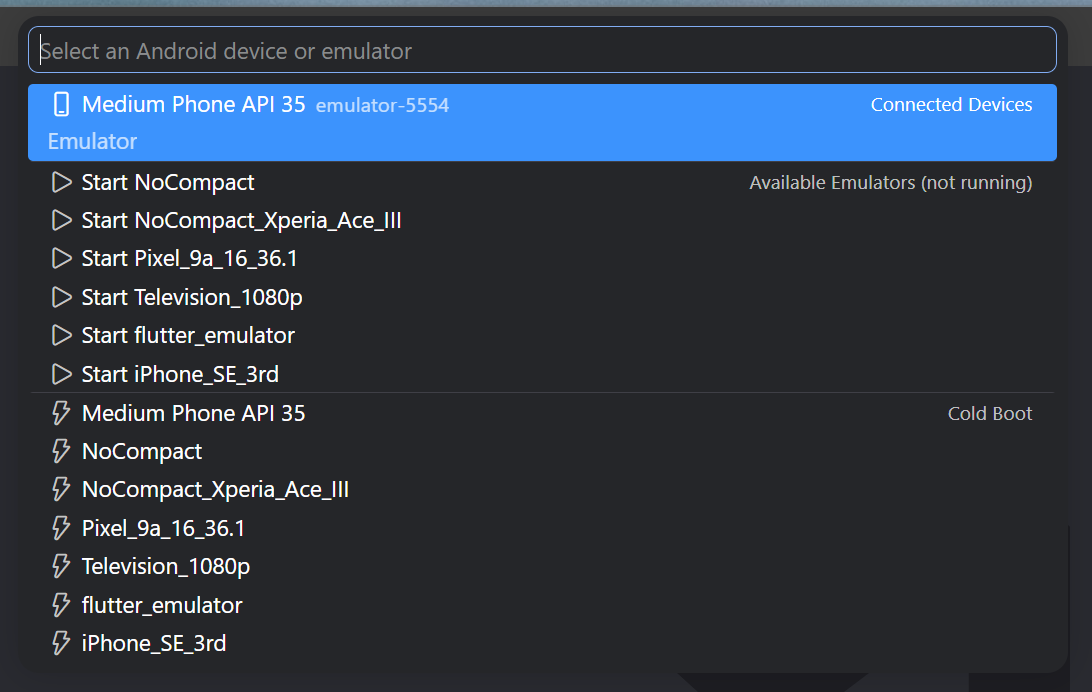
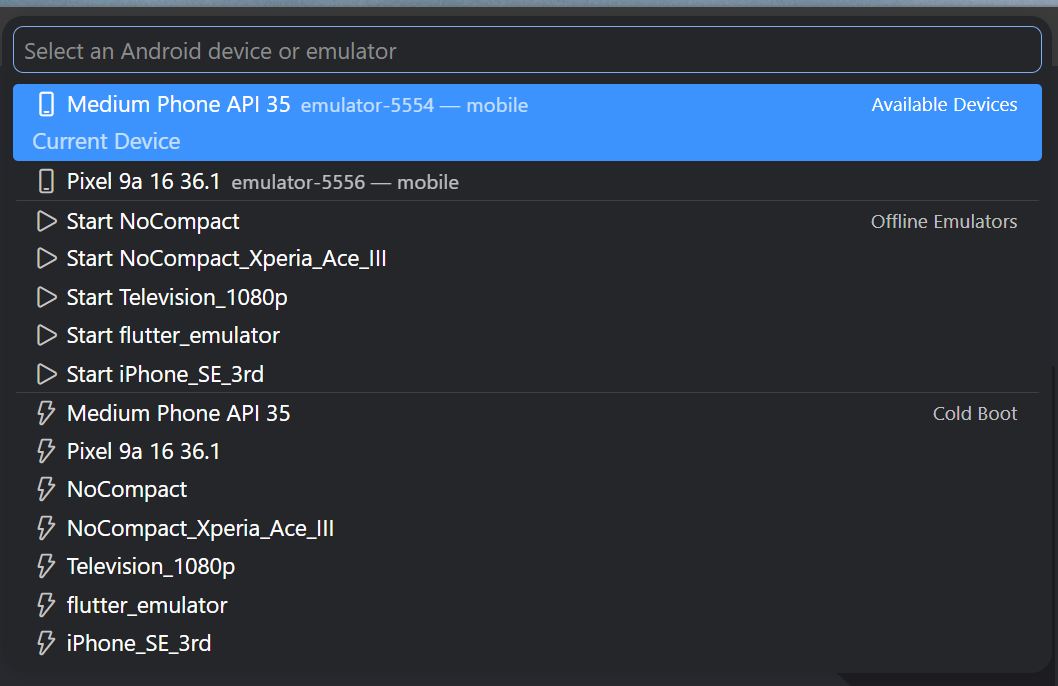
v0.3.3: デバイスピッカーUI改善・F5ガード追加
- Flutter風レイアウト（Current Device / Available Devices / Offline Emulators）
- resolveDebugConfigurationでF5重複起動を抑止
- ユニークセッションID付与でconfirmOnStartダイアログ回避

diff --git a/src/buildRunner.ts b/src/buildRunner.ts
@@ -5,7 +5,7 @@ import * as fs from "fs";
 import { DeviceProvider } from "./deviceProvider";
 import { DeviceManager } from "./deviceManager";
 import { VariantManager } from "./variantManager";
-import { getDebugAdapter } from "./extension";
+import { getDebugAdapter, removeDebugAdapter } from "./extension";
 
 interface DeviceSession {
   deviceId: string;
@@ -24,7 +24,6 @@ export class BuildRunner implements vscode.Disposable {
   private buildingStatusBarItem: vscode.StatusBarItem;
   private stopStatusBarItem: vscode.StatusBarItem;
   private isBuildInProgress = false;
-  private lastLaunchedDeviceId: string | undefined;
   private logFilter: string | undefined;
   private disposables: vscode.Disposable[] = [];
 
@@ -303,23 +302,19 @@ export class BuildRunner implements vscode.Disposable {
         deviceOutputChannel.appendLine(vscode.l10n.t("Could not get app PID, showing all logs"));
       }
 
-      const targetDeviceId = currentDevice.id;
+      const debugSessionName = `Android: ${currentDevice.name}`;
       const logcatProcess = this.deviceProvider.startLogcat(
         currentDevice.id,
         pid,
         (text, category) => {
           deviceOutputChannel.appendLine(text);
-          // Only send to DAP debug console for the most recently launched device
-          if (this.lastLaunchedDeviceId === targetDeviceId) {
-            const adapter = getDebugAdapter();
-            if (adapter) {
-              adapter.writeToConsole(text, category);
-            }
+          // Send to this device's DAP debug console
+          const adapter = getDebugAdapter(debugSessionName);
+          if (adapter) {
+            adapter.writeToConsole(text, category);
           }
         }
       );
-
-      this.lastLaunchedDeviceId = currentDevice.id;
 
       // Register device session
       this.sessions.set(currentDevice.id, {
@@ -378,8 +373,12 @@ export class BuildRunner implements vscode.Disposable {
   /**
    * Called when a native-runner debug session starts (captured via onDidStartDebugSession)
    */
-  public getIsRunning(): boolean {
-    return this.isBuildInProgress || this.sessions.size > 0;
+  public getIsBuildInProgress(): boolean {
+    return this.isBuildInProgress;
+  }
+
+  public hasSessionForDevice(deviceId: string): boolean {
+    return this.sessions.has(deviceId);
   }
 
   public onDebugSessionStarted(session: vscode.DebugSession): void {
@@ -420,10 +419,13 @@ export class BuildRunner implements vscode.Disposable {
    * Called when the debug session ends (floating toolbar stop button pressed)
    */
   public onDebugSessionEnded(session: vscode.DebugSession): void {
-    // Find and stop the device session that owns this debug session
+    // Find the device session that owns this debug session and stop its app
     for (const [deviceId, deviceSession] of this.sessions) {
       if (deviceSession.debugSession === session) {
+        // Clear the reference first to prevent circular stopDevice → stopDebugging
         deviceSession.debugSession = undefined;
+        removeDebugAdapter(session.name);
+        // Stop the app on this specific device
         this.stopDevice(deviceId);
         return;
       }
@@ -458,6 +460,11 @@ export class BuildRunner implements vscode.Disposable {
     const session = this.sessions.get(deviceId);
     if (!session) { return; }
 
+    // Remove from map FIRST to prevent circular calls:
+    // stopDevice → sendTerminated → onDidTerminateDebugSession → onDebugSessionEnded → stopDevice
+    this.sessions.delete(deviceId);
+
+    // Stop the app on device
     try {
       await this.deviceProvider.stopApp(deviceId, session.packageName);
     } catch {
@@ -470,14 +477,18 @@ export class BuildRunner implements vscode.Disposable {
 
     // End the per-device debug session
     if (session.debugSession) {
-      const adapter = getDebugAdapter();
+      const debugSessionName = `Android: ${session.deviceName}`;
+      const adapter = getDebugAdapter(debugSessionName);
       if (adapter) {
         adapter.sendTerminated();
       }
-      session.debugSession = undefined;
+      try {
+        await vscode.debug.stopDebugging(session.debugSession);
+      } catch {
+        // ignore — session may already be terminated
+      }
+      removeDebugAdapter(debugSessionName);
     }
-
-    this.sessions.delete(deviceId);
 
     this.outputChannel.info(
       vscode.l10n.t("■ Stopped on {0}", session.deviceName)

diff --git a/src/extension.ts b/src/extension.ts
@@ -8,11 +8,23 @@ let deviceManager: DeviceManager | undefined;
 let buildRunner: BuildRunner | undefined;
 let variantManager: VariantManager | undefined;
 
-// Current debug adapter instance, accessible from BuildRunner
-let currentDebugAdapter: AndroidDebugAdapter | undefined;
+// Debug adapter instances, keyed by session name (e.g. "Android: Pixel 7")
+const debugAdapters = new Map<string, AndroidDebugAdapter>();
 
-export function getDebugAdapter(): AndroidDebugAdapter | undefined {
-  return currentDebugAdapter;
+export function getDebugAdapter(sessionName?: string): AndroidDebugAdapter | undefined {
+  if (sessionName) {
+    return debugAdapters.get(sessionName);
+  }
+  // Fallback: return the most recently added adapter
+  let last: AndroidDebugAdapter | undefined;
+  for (const adapter of debugAdapters.values()) {
+    last = adapter;
+  }
+  return last;
+}
+
+export function removeDebugAdapter(sessionName: string): void {
+  debugAdapters.delete(sessionName);
 }
 
 export function activate(context: vscode.ExtensionContext) {
@@ -25,6 +37,29 @@ export function activate(context: vscode.ExtensionContext) {
   context.subscriptions.push(deviceManager);
   context.subscriptions.push(variantManager);
   context.subscriptions.push(buildRunner);
+
+  // Guard: cancel F5 if already running; assign unique ID to bypass confirmOnStart dialog
+  context.subscriptions.push(
+    vscode.debug.registerDebugConfigurationProvider("native-runner", {
+      resolveDebugConfiguration(
+        _folder,
+        config
+      ): vscode.DebugConfiguration | undefined {
+        // Unique ID per launch — prevents VSCode's "already running" dialog
+        (config as any).__uniqueId = `session-${Math.random().toString(16).slice(2, 10)}`;
+
+        // Guard: silently cancel if already running or building
+        if (buildRunner?.getIsBuildInProgress()) {
+          return undefined;
+        }
+        const currentDevice = deviceManager?.getCurrentDevice();
+        if (currentDevice && buildRunner?.hasSessionForDevice(currentDevice.id)) {
+          return undefined;
+        }
+        return config;
+      },
+    })
+  );
 
   // Register debug adapter for floating toolbar + debug console
   context.subscriptions.push(
@@ -78,12 +113,17 @@ export function activate(context: vscode.ExtensionContext) {
   );
 
   // Internal: called from debug adapter launch handler (F5)
-  // Silently skips if already running (prevents circular call from startDebugSession)
+  // Skip if build in progress or selected device already has a session
   context.subscriptions.push(
     vscode.commands.registerCommand("native-runner._launchFromDebug", () => {
-      if (!buildRunner?.getIsRunning()) {
-        buildRunner?.installAndRun(true);
+      if (buildRunner?.getIsBuildInProgress()) {
+        return;
       }
+      const currentDevice = deviceManager?.getCurrentDevice();
+      if (currentDevice && buildRunner?.hasSessionForDevice(currentDevice.id)) {
+        return;
+      }
+      buildRunner?.installAndRun(true);
     })
   );
 
@@ -123,10 +163,10 @@ export function activate(context: vscode.ExtensionContext) {
 
 class AndroidDebugAdapterFactory implements vscode.DebugAdapterDescriptorFactory {
   createDebugAdapterDescriptor(
-    _session: vscode.DebugSession
+    session: vscode.DebugSession
   ): vscode.ProviderResult<vscode.DebugAdapterDescriptor> {
-    const adapter = new AndroidDebugAdapter();
-    currentDebugAdapter = adapter;
+    const adapter = new AndroidDebugAdapter(session.name);
+    debugAdapters.set(session.name, adapter);
     return new vscode.DebugAdapterInlineImplementation(adapter);
   }
 }
@@ -135,6 +175,8 @@ export class AndroidDebugAdapter implements vscode.DebugAdapter {
   private onDidSendMessageEmitter = new vscode.EventEmitter<any>();
   readonly onDidSendMessage = this.onDidSendMessageEmitter.event;
   private seq = 1;
+
+  constructor(public readonly sessionName: string) {}
 
   handleMessage(message: any): void {
     if (message.type === "request") {
@@ -215,12 +257,13 @@ export class AndroidDebugAdapter implements vscode.DebugAdapter {
   }
 
   dispose(): void {
-    currentDebugAdapter = undefined;
+    debugAdapters.delete(this.sessionName);
     this.onDidSendMessageEmitter.dispose();
   }
 }
 
 export function deactivate() {
+  debugAdapters.clear();
   deviceManager = undefined;
   buildRunner = undefined;
   variantManager = undefined;

diff --git a/src/deviceManager.ts b/src/deviceManager.ts
@@ -93,19 +93,39 @@ export class DeviceManager implements vscode.Disposable {
     const items: DevicePickItem[] = [];
     const emulators = await this.deviceProvider.getAvailableEmulators();
 
-    // Connected devices
+    // Connected devices — split into Current Device + Available Devices
     const onlineDevices = this.devices.filter((d) => d.isOnline);
+    const currentId = this.currentDevice?.id;
+
     if (onlineDevices.length > 0) {
+      const currentOnline = onlineDevices.find((d) => d.id === currentId);
+      const otherOnline = onlineDevices.filter((d) => d.id !== currentId);
+
+      // "Available Devices" separator (shown at right edge, like Flutter)
       items.push({
-        label: vscode.l10n.t("Connected Devices"),
+        label: vscode.l10n.t("Available Devices"),
         kind: vscode.QuickPickItemKind.Separator,
       });
-      for (const device of onlineDevices) {
+
+      // Current Device first
+      if (currentOnline) {
+        const icon = currentOnline.type === "emulator" ? "$(device-mobile)" : "$(plug)";
+        const typeLabel = currentOnline.type === "emulator" ? "mobile" : "physical";
+        items.push({
+          label: `${icon} ${currentOnline.name}`,
+          description: `${currentOnline.id} — ${typeLabel}`,
+          detail: vscode.l10n.t("Current Device"),
+          device: currentOnline,
+        });
+      }
+
+      // Other online devices
+      for (const device of otherOnline) {
         const icon = device.type === "emulator" ? "$(device-mobile)" : "$(plug)";
+        const typeLabel = device.type === "emulator" ? "mobile" : "physical";
         items.push({
           label: `${icon} ${device.name}`,
-          description: device.id,
-          detail: device.type === "emulator" ? vscode.l10n.t("Emulator") : vscode.l10n.t("Physical Device"),
+          description: `${device.id} — ${typeLabel}`,
           device,
         });
       }
@@ -123,7 +143,7 @@ export class DeviceManager implements vscode.Disposable {
 
     if (offlineEmulators.length > 0) {
       items.push({
-        label: vscode.l10n.t("Available Emulators (not running)"),
+        label: vscode.l10n.t("Offline Emulators"),
         kind: vscode.QuickPickItemKind.Separator,
       });
       for (const emu of offlineEmulators) {

diff --git a/CHANGELOG.md b/CHANGELOG.md
@@ -1,9 +1,18 @@
 # Changelog
 
+## 0.3.3 (2026-03-18)
+
+- Device picker UI improvements — Flutter-style layout with Current Device / Available Devices / Offline Emulators sections
+- F5 guard via `resolveDebugConfiguration` to silently skip when build in progress or device already running
+
 ## 0.3.2 (2026-03-18)
 
-- Per-device debug sessions — floating toolbar shows device selector dropdown
-- Toolbar stop/restart targets the selected device only (not all devices)
+- Per-device DAP debug sessions — floating toolbar shows device selector dropdown
+- Toolbar stop/restart targets only the corresponding device
+- Fixed: Stop on one device no longer affects other running devices
+- Fixed: Floating toolbar correctly removed when device is stopped
+- Fixed: F5 now works when other devices are running (targets selected device)
+- Debug adapter map (`debugAdapters`) replaces singleton for correct session isolation
 
 ## 0.3.1 (2026-03-17)
 
